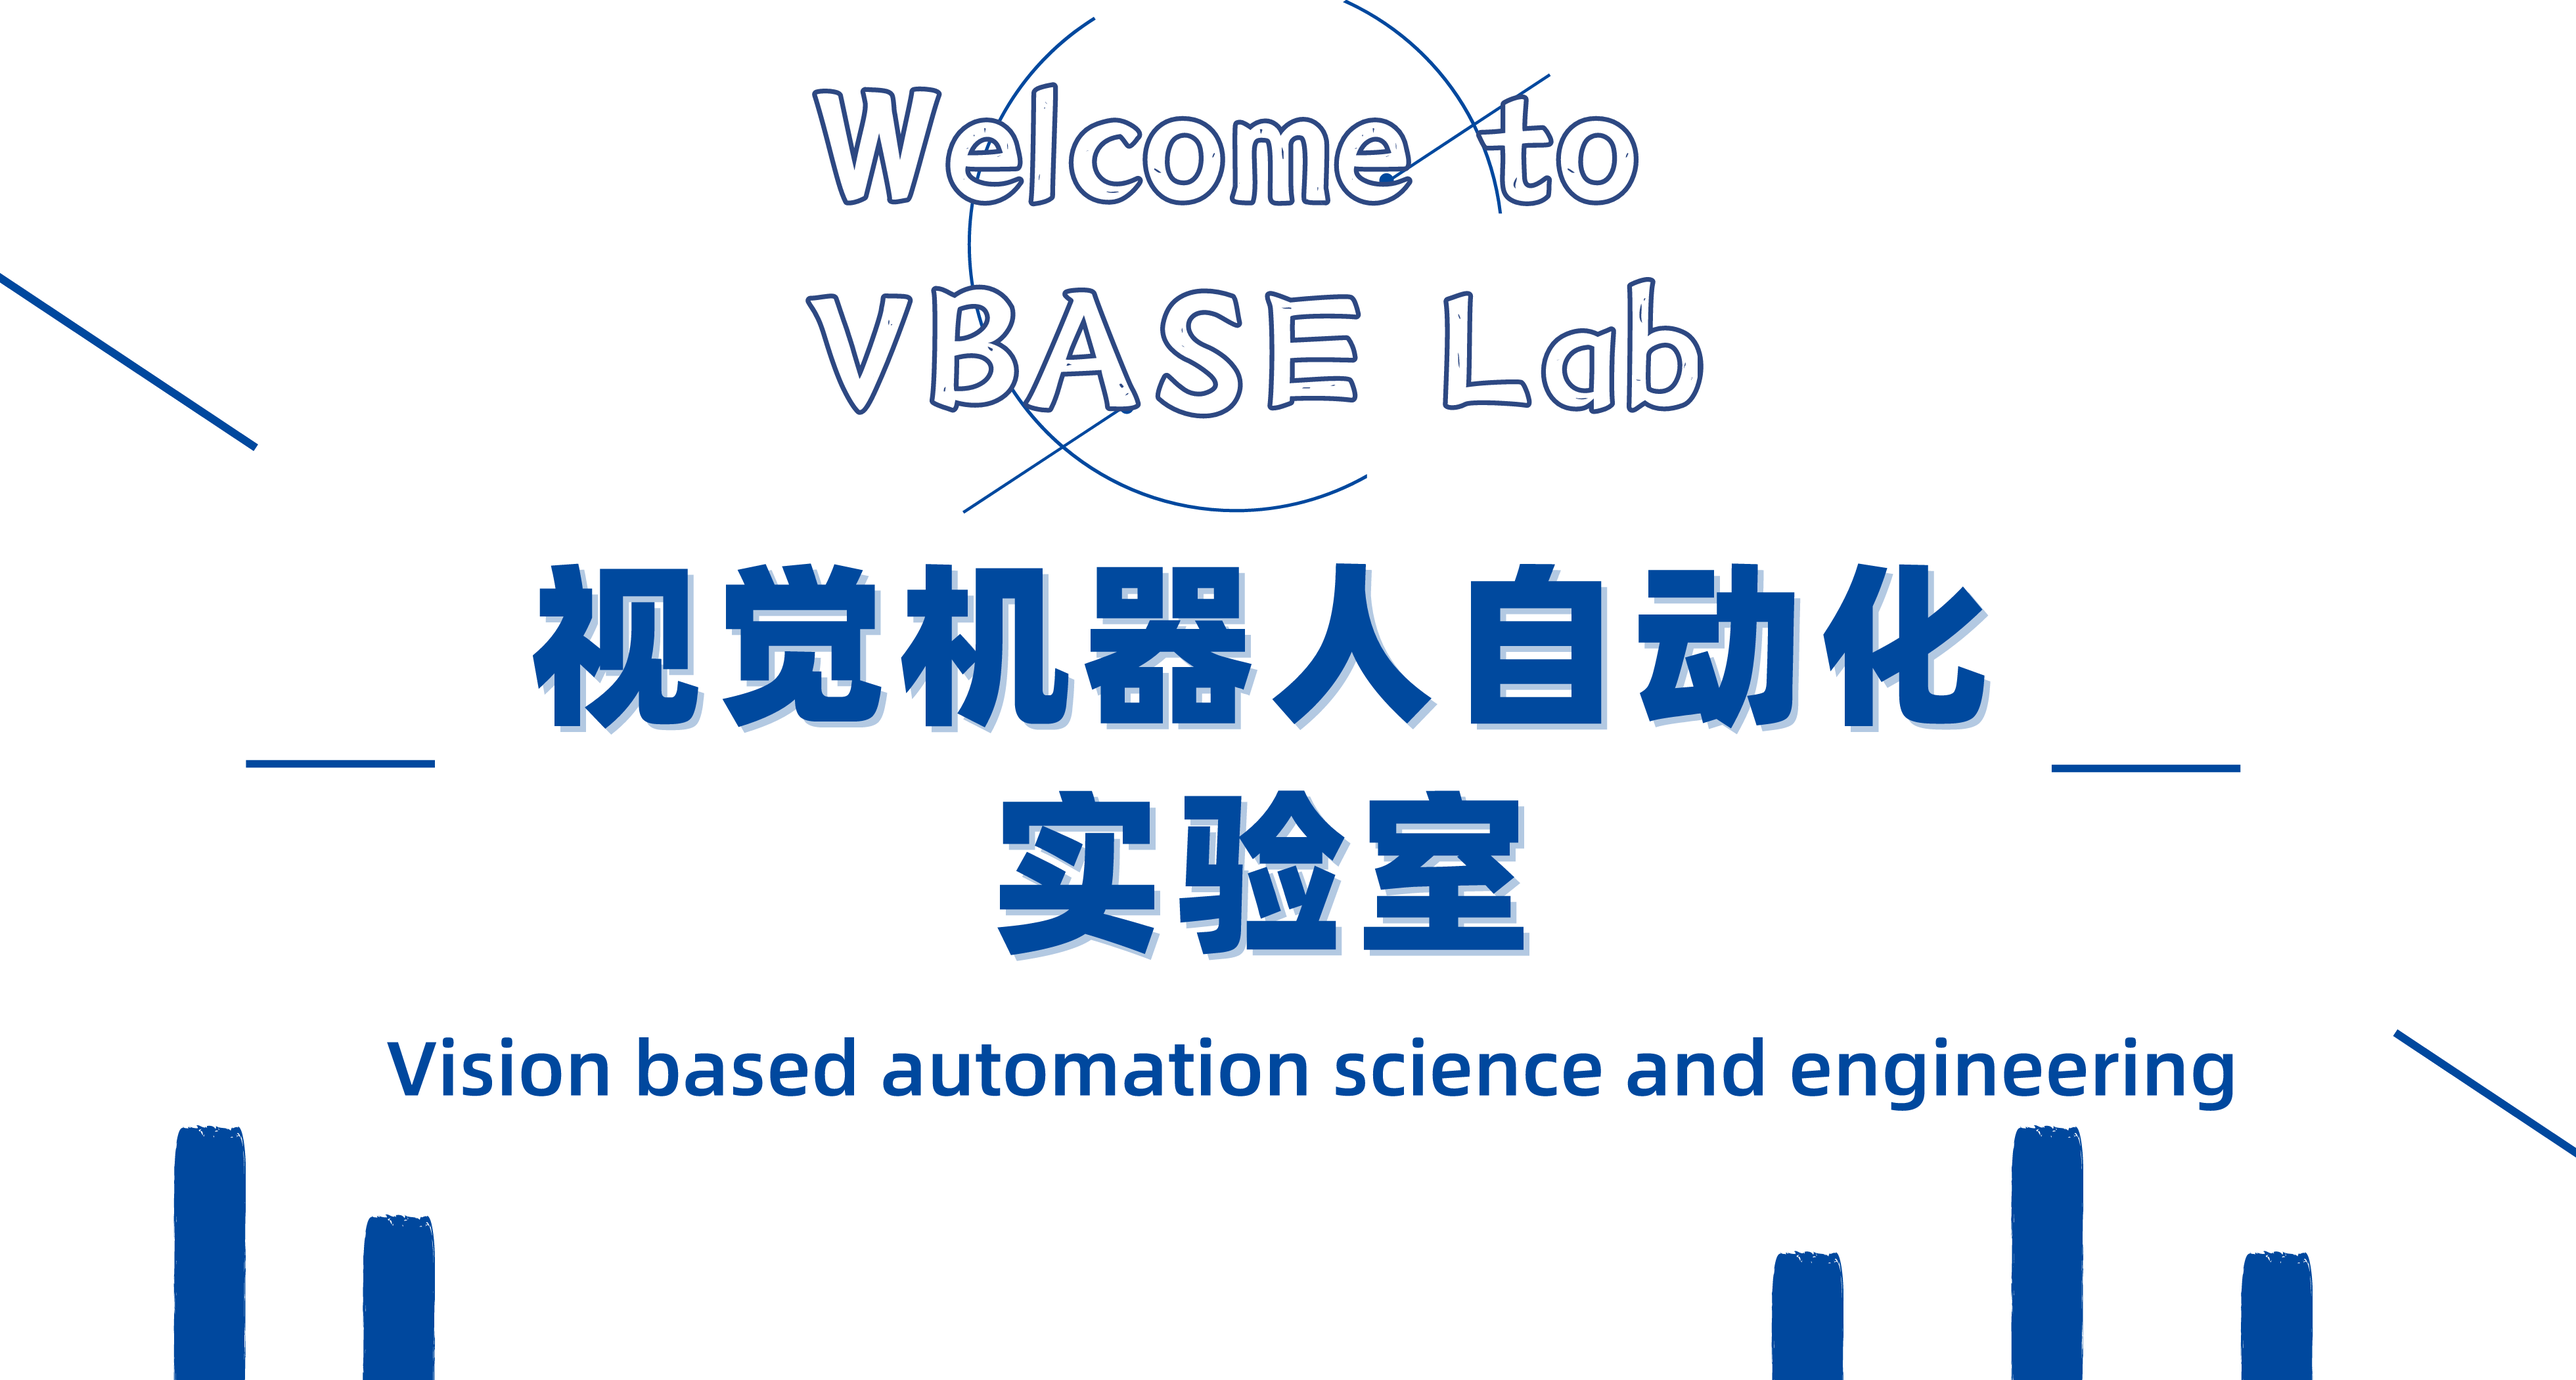
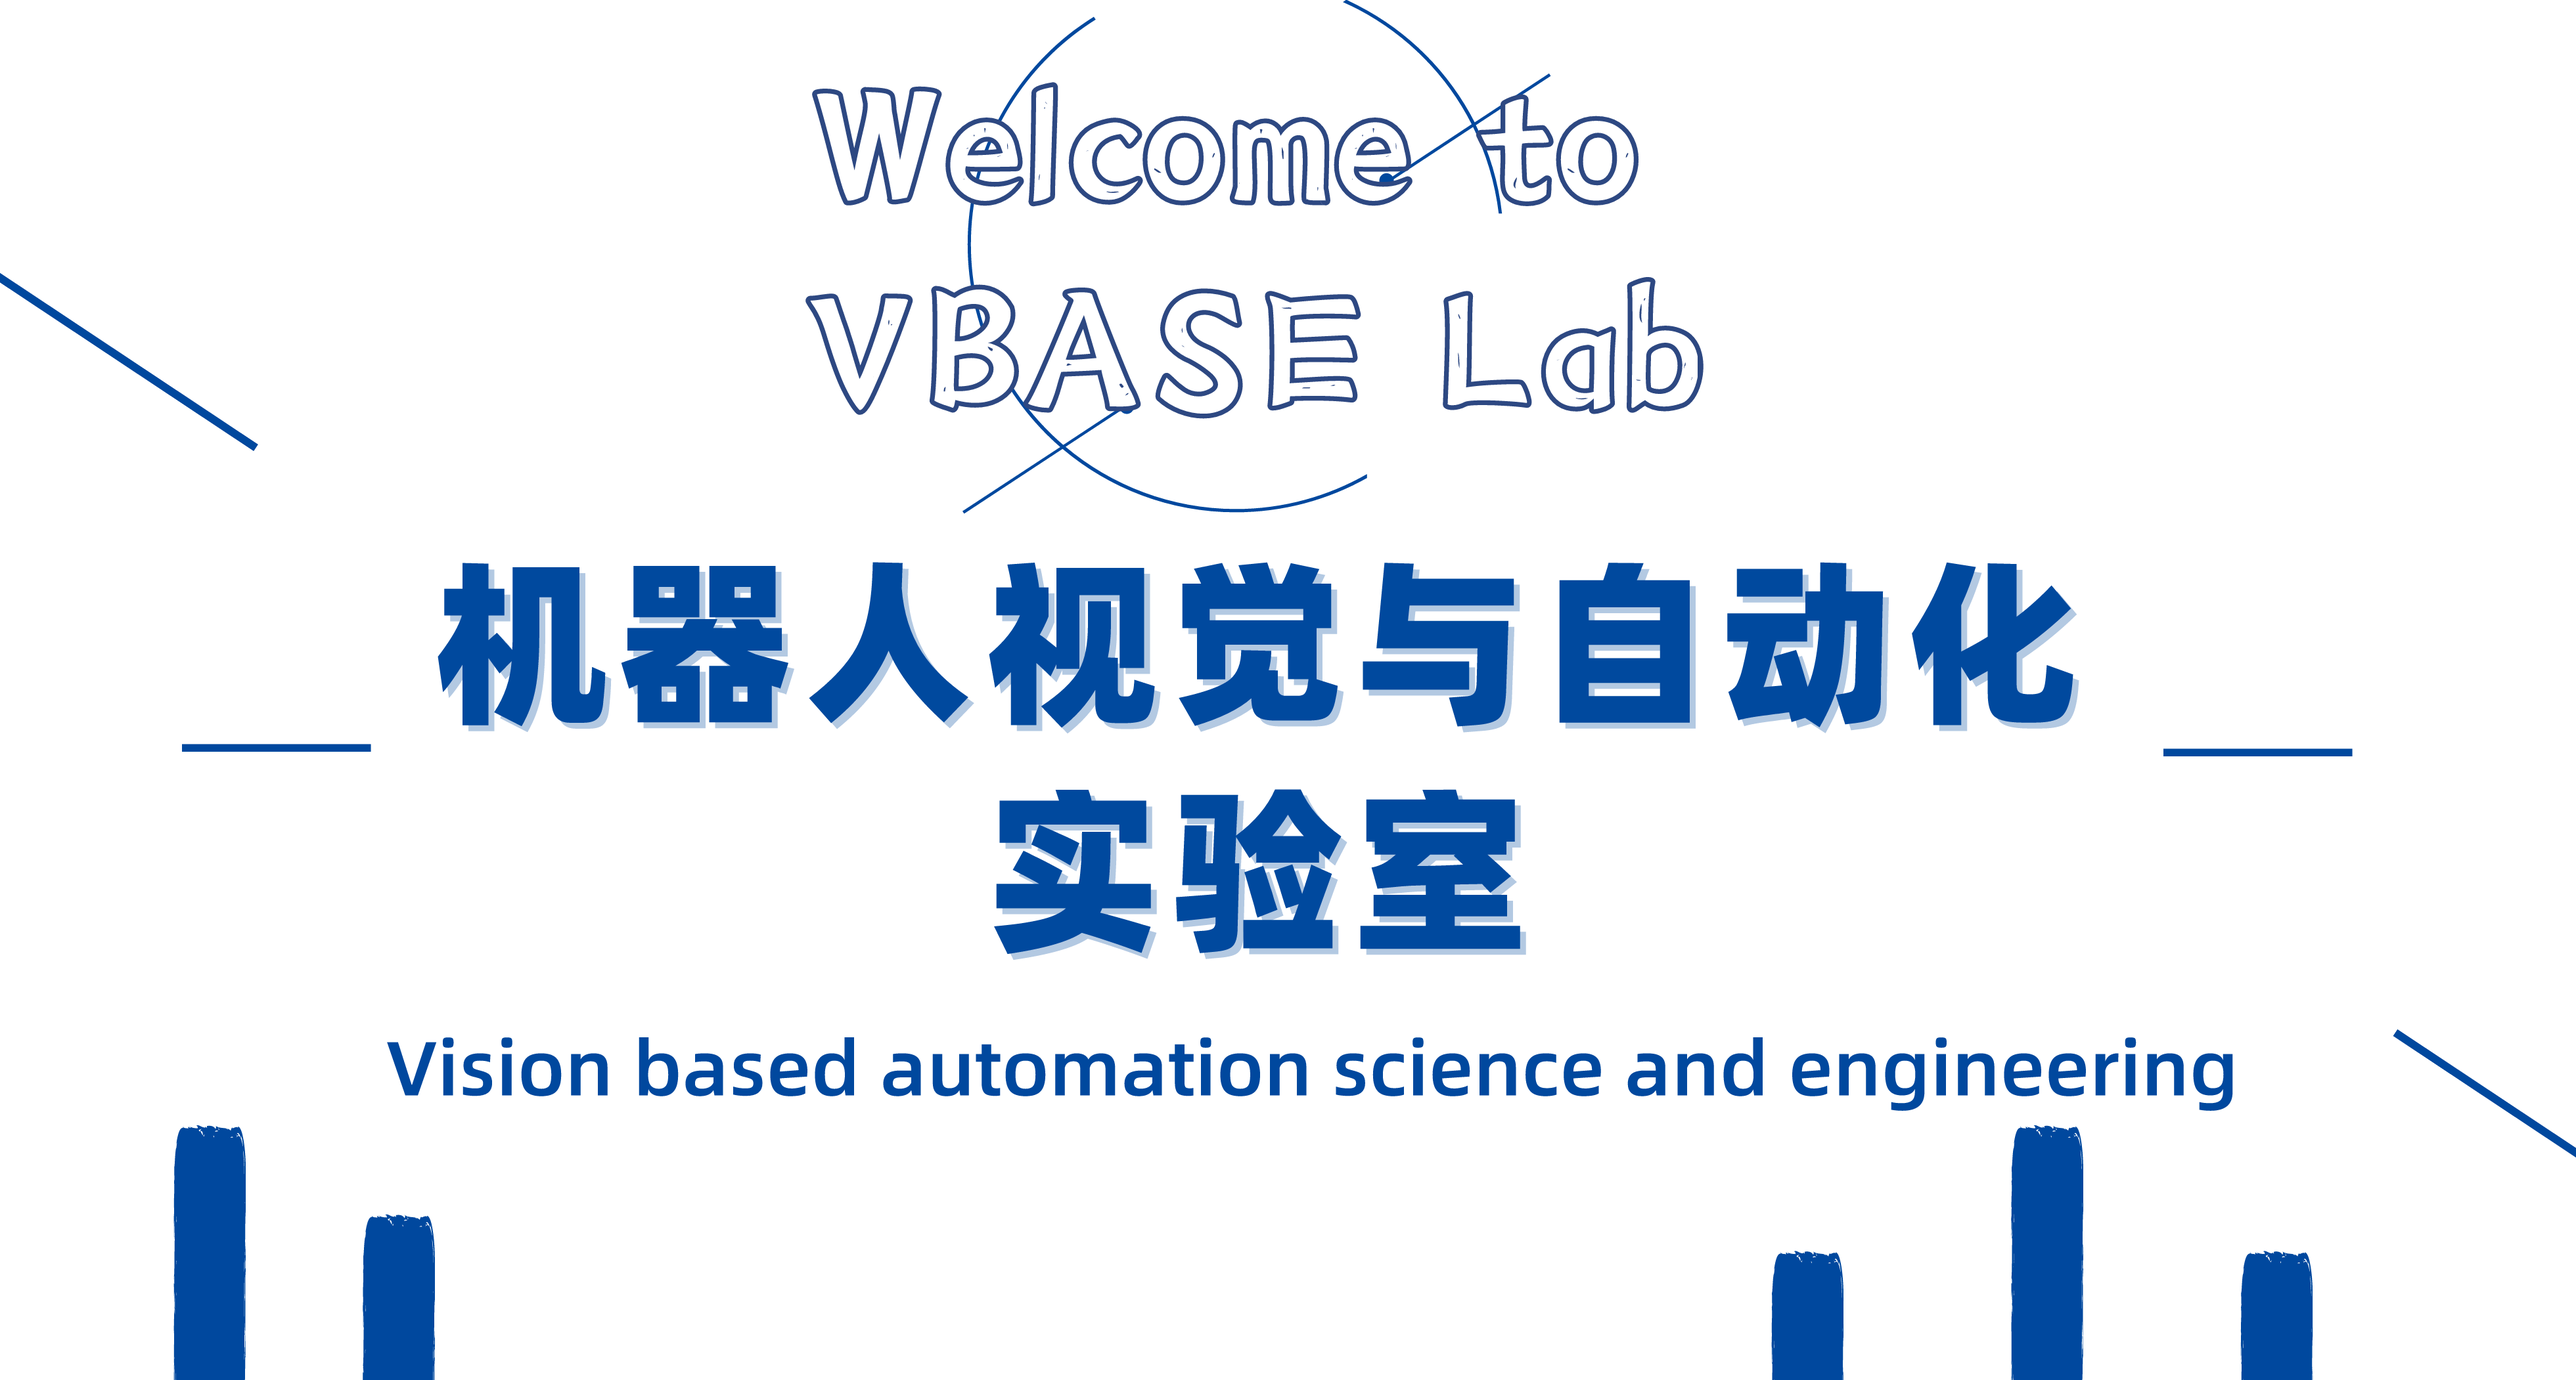
first commit

Changed region(s): [[0.0622, 0.402, 0.809, 0.5566], [0.3734, 0.5875, 0.5912, 0.7112], [0.809, 0.5257, 0.9023, 0.5875]]

diff --git a/_layouts/test.html b/_layouts/test.html
@@ -26,13 +26,10 @@ bodyClass: page-home
   </div>
 </div>
 -->
-<div class="container pb-6 pt-6 pt-md-10 pb-md-10">
+<div class="container pb-6 pt-6 pt-md-10 pb-md-10" style="background:#f9f9f9;">
   <div class="row justify-content-md-center">
     <div class="col">
-      <!--
-	    <h1>Welcome to IPRL Lab</h1>
-	  <p>智能感知机器人实验室（Intelligent Perception Robotic Lab）</p>
--->
+      
 
       <div class="container-fluid">
         <div class="row">
@@ -106,7 +103,7 @@ bodyClass: page-home
             <p></p>
 
             <p>
-              哈尔滨工业大学（深圳）视觉机器人自动化实验室于2015年6月成立。我们<a
+              哈尔滨工业大学（深圳）机器人视觉与自动化实验室于2015年6月成立。我们<a
                 href="/people"
                 >团队</a
               >由一群有趣的人组成，我们的研究兴趣有柔软体操作，建筑机器人和机器人抓取，想了解更多研究细节可以点击<a
@@ -132,11 +129,11 @@ bodyClass: page-home
      <div id="newsid" class="col-sm-4" style="background:#ffe5e5; color:#000000" >-->
 
     <div id="newsid" class="col-sm-4">
-      <div class="well" style="background: #ffffff; border: 1px solid #ffffff">
+      <div class="well" style="background: #f9f9f9; border: 1px solid #f9f9f9">
         <!--<h3 style="margin: 5px 0px 10px 0px">News</h3>-->
-        <h3 align="center" style="color: #337ab7">News</h3>
-        <div style="border: 1px solid #337ab7"></div>
-        <div style="border: 5px solid #ffffff"></div>
+        <h3 align="center" style="color: #00000">News</h3>
+        <div style="border: 1px solid #0d4880; background: #0d4880;"></div>
+        <div style="border: 5px solid #f9f9f9"></div>
         2021-07-15
         <p>
           实验室<a href="https://hitsz-robotic.top"><strong>一篇</strong></a
@@ -153,13 +150,13 @@ bodyClass: page-home
         2021-07-01
         <p><a href="https://hitsz-robotic.top">实验室网站</a>建立啦~</p>
 
-        <h4><a href="/news/">... see all News</a></h4>
+        <h3><a href="/news/">... see all News</a></h3>
       </div>
       <div class="row">
         <figure class="fourth">
           <p></p>
           <img
-            src="//clustrmaps.com/map_v2.png?cl=3989eb&w=300&t=tt&d=x93krhc5ecdKoQKiHZBkbBTM7KGjKckVSMlrBUrMrI4&co=ffffff&ct=808080"
+            src="//clustrmaps.com/map_v2.png?cl=3989eb&w=300&t=tt&d=x93krhc5ecdKoQKiHZBkbBTM7KGjKckVSMlrBUrMrI4&co=f9f9f9&ct=808080"
           />
         </figure>
       </div>

diff --git a/_includes/footer.html b/_includes/footer.html
@@ -2,19 +2,41 @@
   <div class="container">
     <div class="row">
       <div class="col-12">
-        <div class="footer-inner">
-          <h3 class="footer-title">{{site.title}}</h3>
-          <ul>
-            {% assign footermenu = site.data.menus.footer | sort: 'weight'  %}
-            {% for item in footermenu %}
-            <li class="{% if item.url == page.url %}active{% endif %}">
-              <a href="{{ item.url | relative_url }}">{{ item.name }}</a>
-            </li>
-            {% endfor %}
-          </ul>
-         <!--<script type="text/javascript" id="clustrmaps" src="//cdn.clustrmaps.com/map_v2.js?cl=ffffff&w=100&t=tt&d=x93krhc5ecdKoQKiHZBkbBTM7KGjKckVSMlrBUrMrI4&co=2d78ad&ct=ffffff&cmo=3acc3a&cmn=ff5353"></script> 
-       --> </div>
-      </div>
+		<div class="row">
+			 <div class="header-logo col-4">
+				<div class="logo">
+					<img  style="height: auto; width: 300px; float: left;" alt="{{ site.title }}" src="{{base_url}}/images/logo/2_主页_头部hitLOGO.png" />
+				</div>
+			 </div>
+       
+      <!--
+      <div class="col-12">-->
+			 <div class="col-4">
+				<div class="footer-inner-5">
+                {% if site.data.social %}
+                   {% include social.html %}
+                {% endif %}
+				</div>
+			 </div>
+          
+			 <div class="col-4">  
+		
+	  
+                 <div class="footer-inner">
+				 
+					<h3 class="footer-title"></h3>
+					<ul>
+						{% assign footermenu = site.data.menus.footer | sort: 'weight'  %}
+						{% for item in footermenu %}
+					<li class="{% if item.url == page.url %}active{% endif %}">
+					<a href="{{ item.url | relative_url }}">{{ item.name }}</a>
+					</li>
+						{% endfor %}
+					</ul>
+				 </div>
+			 </div>
+		</div>
+	  </div>
     </div>
   </div>
 </div>

diff --git a/_sass/components/_footer.scss b/_sass/components/_footer.scss
@@ -1,12 +1,25 @@
 .footer {
   background: $footer-background-color;
-  padding-top: 15px;
-  padding-bottom: 15px;
+  padding-top: 0px;//15
+  padding-bottom: 0px;//15
   .footer-inner {
+	padding-top: 15px;
     display: flex;
     justify-content: space-between;
-    flex-direction: column;
-    align-items: flex-start;
+    flex-direction: column; //column
+    align-items: flex-start;//flex-start
+    @include media-breakpoint-up(sm) {
+      justify-content: space-between;
+      flex-direction: row;
+      align-items: center;
+    }
+  }
+  .footer-inner-5 {
+	padding-top: 8px;
+    display: flex;
+    justify-content: space-between;
+    flex-direction: column; //column
+    align-items: flex-start;//flex-start
     @include media-breakpoint-up(sm) {
       justify-content: space-between;
       flex-direction: row;
@@ -18,7 +31,7 @@
     font-size: 1.3rem;
     font-family: $font-family-heading;
     font-weight: bold;
-    margin-bottom: 10px;
+    margin-bottom: 10px;//10
     @include media-breakpoint-up(sm) {
       margin: 0;
     }
@@ -29,11 +42,11 @@
     padding: 0;
     li {
       color: $footer-text-color;
-      font-size: 1rem;
+      font-size: 1.5rem;
       a {
         color: $footer-text-color;
         text-decoration: none;
-        padding: 12px 14px 12px 0;
+        padding: 12px 14px 12px 0;//12px 14px 12px 0
         display: block;
         &:hover {
           text-decoration: underline;
@@ -50,7 +63,7 @@
       justify-content: flex-end;
       li {
         list-style: none;
-        margin-right: 10px;
+        margin-right: 10px;//10
         &:last-of-type {
           margin-right: 0;
         }

diff --git a/_layouts/teams.html b/_layouts/teams.html
@@ -3,8 +3,8 @@ layout: default
 bodyClass: page-team-list
 ---
 
-<div class="intro">
-    <div class="container">
+
+    <div class="container pb-5 pt-3 pt-md-3 pb-md-5" style="background:#f9f9f9;">
         <div class="row justify-content-start">
             <div class="col">
             <!--<div class="col-12 col-md-7 col-lg-6 order-2 order-md-1">-->
@@ -17,9 +17,11 @@ bodyClass: page-team-list
             {% endif %}
         </div>
     </div>
-</div>
+
 <!--<div class="container pt-6 pb-6">-->
-<div class="container pt-0 pb-6">
+<div class="container pt-0 pb-6" style="background:#f9f9f9;" onselectstart="return false">
+	<h2> </h2>
+	<h2> </h2>
     <h2><b>教授</b></h2>
     <div class="row">
         {% assign promoted_teams = site.team | where: "promoted", true| where: "prof", true | sort: "weight" %}
@@ -35,7 +37,7 @@ bodyClass: page-team-list
                     <h2 class="team-name"><a href="{{ team.url | relative_url }}">{{ team.title }}</a></h2>
                     <p class="team-description">{{ team.jobtitle }}</p>
                     
-                    <img alt="" class="img-fluid mb-2" src="{{ team.email | relative_url }}" width="30%" />
+                   <!-- <img alt="" class="img-fluid mb-2" src="{{ team.email | relative_url }}" width="10%" />-->
                     {% if team.linkedinurl %}
                     <a target="_blank" href="{{ team.linkedinurl }}">LinkedIn</a>
                     {% endif %}

diff --git a/_includes/sub-footer.html b/_includes/sub-footer.html
@@ -1,15 +1,24 @@
 <div class="sub-footer">
   <div class="container">
     <div class="row">
-      <div class="col-12">
-        <div class="sub-footer-inner">
-          {% if site.data.social %}
-            {% include social.html %}
-          {% endif %}
-          {% if site.footer.copyright_text %}
-          <div class="copyright">{{ site.footer.copyright_text }}</div>
-          {% endif %}
-        </div>
+      <div class="col-4">
+		<div class="sub-footer-inner">
+			<img style="height: auto; width: 300px; float: left;" alt="" src="{{base_url}}/images/logo/标题.png" />
+		</div>
+	  </div>
+	  
+	  <div class='col-8'>
+			<div class="sub-footer-inner">
+			
+			
+				{% if site.data.social %}
+				{% include socialBlank.html %} 
+			
+				{% endif %}
+				{% if site.footer.copyright_text %}
+			<div class="copyright">{{ site.footer.copyright_text }}</div>
+				{% endif %}
+			</div>
       </div>
     </div>
   </div>

diff --git a/assets/css/style.scss b/assets/css/style.scss
@@ -5,18 +5,21 @@
 // Colors
 //$primary: #E5261F;
 //$secondary: #f88379;
-$primary: #337ab7;
+//$primary: #337ab7;
+$primary: #0d4880;
 $secondary: #e0e8f3;
 $black: #2f2f41;
 $white: #ffffff;
 //$white-offset: #fff6f8;//粉色
-$white-offset: #f6f8ff;
+//$white-offset: #f6f8ff;
+$white-offset: #e4e8f5;
 $steel: #5C5A5A;
+$linkColor: #3754b3;
 
 // Links
-$link-color: $primary;
+$link-color: $linkColor;
 $link-decoration: none;
-$link-hover-color: lighten($primary, 10%);
+$link-hover-color: lighten($linkColor, 10%);
 $link-hover-decoration: underline;
 
 // Fonts
@@ -26,7 +29,8 @@ $font-family-heading: 'Playfair Display', serif, -apple-system;
 // Footer
 $footer-background-color: $primary;
 $footer-text-color: $white;
-$sub-footer-background-color: darken($primary, 10%);
+//$sub-footer-background-color: darken($primary, 10%);
+$sub-footer-background-color: $primary;
 $sub-footer-text-color: $white;
 
 // Bootstrap

diff --git a/_includes/header.html b/_includes/header.html
@@ -9,7 +9,7 @@
                 style="width: auto; "
                 height="67px"
                 alt="{{ site.title }}"
-                src="{{ site.logo.desktop }}"
+                src="{{ site.logo.desktop | relative_url}}"
                 
             /></a>
           </div>
@@ -17,7 +17,7 @@
             <a href="{{ site.baseurl }}"
               ><img
                 alt="{{ site.title }}"
-                src="{{ site.logo.mobile }}"
+                src="{{ site.logo.mobile | relative_url }}"
             /></a>
           </div>
         </div>

diff --git a/_layouts/page.html b/_layouts/page.html
@@ -3,7 +3,7 @@ layout: default
 ---
 
 <link rel="stylesheet" href="https://cdn.staticfile.org/twitter-bootstrap/3.3.7/css/bootstrap.min.css">
-<div class="container pb-6 pt-6 pt-md-10 pb-md-10">
+<div class="container pb-6 pt-6 pt-md-10 pb-md-10" style="background:#f9f9f9;">
     <div class="row justify-content-start">
         <div class="col">
             <div class="service service-single">

diff --git a/_sass/components/_intro.scss b/_sass/components/_intro.scss
@@ -2,12 +2,12 @@
   display: flex;
   justify-content: flex-start;
   align-items: center;
-  padding-top: 60px;
-  padding-bottom: 60px;
+  padding-top: 60px;//60
+  padding-bottom: 0px;//60
   overflow: hidden;
   @include media-breakpoint-up(md) {
-    padding-top: 140px;
-    padding-bottom: 140px;
+    padding-top: 60px;//140
+    padding-bottom:0px;//140
   }
   h1 {
     color: $black;

diff --git a/_layouts/default.html b/_layouts/default.html
@@ -53,9 +53,9 @@
 	
   
 </head>
-<body class='page {{page.bodyClass}}' bgcolor="#F9F9F9">
+<body class='page {{page.bodyClass}}' >
   {% include main-menu-mobile.html %}
-  <div id="wrapper" class="wrapper">
+  <div id="wrapper" class="wrapper" bgcolor="#F9F9F9">
     {% include header.html headerClass='header-extra' %}
     {{content}}
   </div>

diff --git a/_layouts/contact.html b/_layouts/contact.html
@@ -4,7 +4,7 @@ layout: default
 bodyClass: page-contact
 ---
 
-<div class="container pb-6 pt-6 pt-md-10 pb-md-10">
+<div class="container pb-6 pt-6 pt-md-10 pb-md-10" style="background:#f9f9f9;">
     <div class="row justify-content-start">
         <div class="col">
             

diff --git a/_sass/components/_sub-footer.scss b/_sass/components/_sub-footer.scss
@@ -16,8 +16,8 @@
     }
   }
   .copyright {
-    margin-top: 10px;
-    font-size: 14px;
+    margin-top: 0px;
+    font-size: 1.5rem;
     a {
       font-weight: bold;
       color: inherit;
